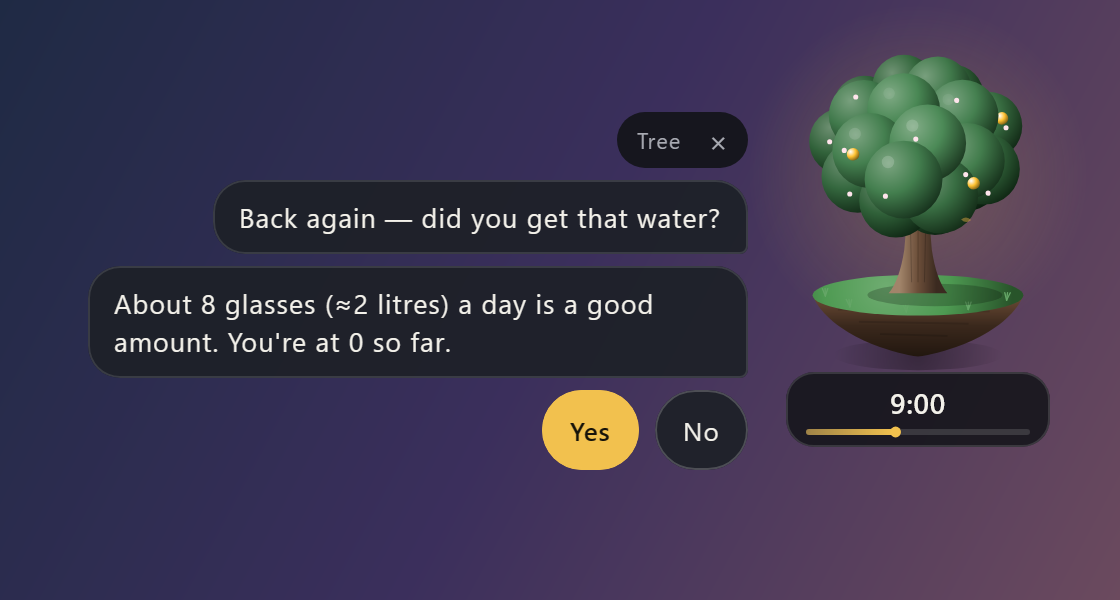
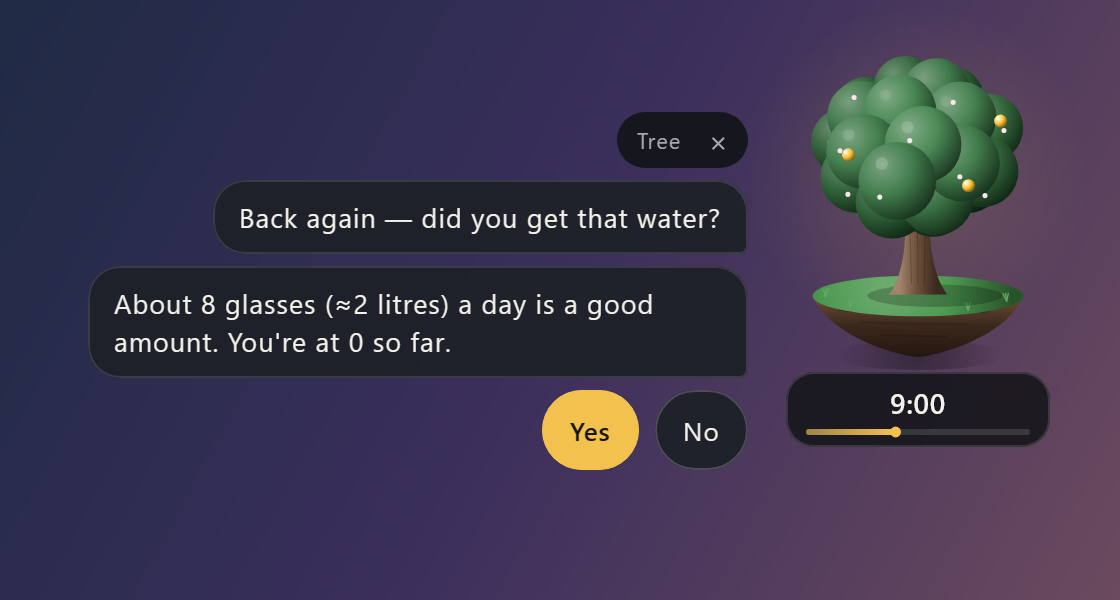
Countdown capsule: no border, shaded used-up part, very slight glow
The capsule drains over a faint shade of its own colour (the time already
gone), with no outline, and two faint layers give the remaining part a
very slight glow.

diff --git a/composeApp/src/commonMain/kotlin/app/fifteen/Countdown.kt b/composeApp/src/commonMain/kotlin/app/fifteen/Countdown.kt
@@ -72,9 +72,9 @@ fun countdownFraction(p: Profile, now: Long): Float {
 }
 
 /**
- * The time-left capsule, like a timer Live Activity or a battery: an outlined capsule with a solid capsule
- * inside that drains from full to empty, right to left. No glow. It turns coral in the last fifth of the time.
- * Small sizes (the pet, the bar) drop the outline and are just the draining capsule on a faint track.
+ * The time-left capsule, like a timer Live Activity: a solid capsule that drains from full to empty, right to
+ * left, over a faint shade of the same colour for the time already gone. No border, no glow. It turns coral in
+ * the last fifth of the time.
  */
 @Composable
 fun CountdownPill(fraction: Float, modifier: Modifier = Modifier) {
@@ -82,24 +82,22 @@ fun CountdownPill(fraction: Float, modifier: Modifier = Modifier) {
     val color = androidx.compose.ui.graphics.lerp(Ink.mellow, Ink.coral, warm)
     androidx.compose.foundation.Canvas(modifier) {
         val h = size.height
-        val outlined = h >= 12.dp.toPx()
-        val inset = if (outlined) 3.dp.toPx() else 0f
-        if (outlined) {
-            drawRoundRect(
-                androidx.compose.ui.graphics.Color(0x33FFFFFF), cornerRadius = androidx.compose.ui.geometry.CornerRadius(h / 2),
-                style = androidx.compose.ui.graphics.drawscope.Stroke(1.dp.toPx()),
-            )
-        } else {
-            drawRoundRect(androidx.compose.ui.graphics.Color(0x1FFFFFFF), cornerRadius = androidx.compose.ui.geometry.CornerRadius(h / 2))
-        }
-        val ih = h - inset * 2
-        val w = (size.width - inset * 2) * fraction.coerceIn(0f, 1f)
+        // The used-up part keeps a faint shade of the same colour, so it reads as time that has drained away.
+        drawRoundRect(color.copy(alpha = 0.16f), cornerRadius = androidx.compose.ui.geometry.CornerRadius(h / 2))
+        val w = size.width * fraction.coerceIn(0f, 1f)
         if (w > 0f) {
+            // A very slight glow around the remaining time: two faint, slightly larger capsules behind it.
+            for ((grow, alpha) in listOf(h * 0.55f to 0.05f, h * 0.28f to 0.09f)) {
+                drawRoundRect(
+                    color.copy(alpha = alpha), topLeft = androidx.compose.ui.geometry.Offset(-grow, -grow),
+                    size = androidx.compose.ui.geometry.Size(w + grow * 2, h + grow * 2),
+                    cornerRadius = androidx.compose.ui.geometry.CornerRadius(minOf(h / 2, w / 2) + grow),
+                )
+            }
             // Stays a capsule as it empties; the last sliver narrows instead of leaving a stuck dot.
             drawRoundRect(
-                color, topLeft = androidx.compose.ui.geometry.Offset(inset, inset),
-                size = androidx.compose.ui.geometry.Size(w, ih),
-                cornerRadius = androidx.compose.ui.geometry.CornerRadius(minOf(ih / 2, w / 2)),
+                color, size = androidx.compose.ui.geometry.Size(w, h),
+                cornerRadius = androidx.compose.ui.geometry.CornerRadius(minOf(h / 2, w / 2)),
             )
         }
     }
@@ -121,7 +119,7 @@ fun CountdownCard(store: Store, v: View) {
                     style = TextStyle(fontFeatureSettings = "tnum"))
                 Spacer(Modifier.height(12.dp))
                 val fraction = countdownFraction(p, v.now)
-                CountdownPill(fraction, Modifier.fillMaxWidth().height(18.dp))
+                CountdownPill(fraction, Modifier.fillMaxWidth().height(12.dp))
                 Spacer(Modifier.height(10.dp))
                 Row {
                     Muted("until ${countdownWhen(p.countdownAt)}", size = 12, modifier = Modifier.weight(1f))
